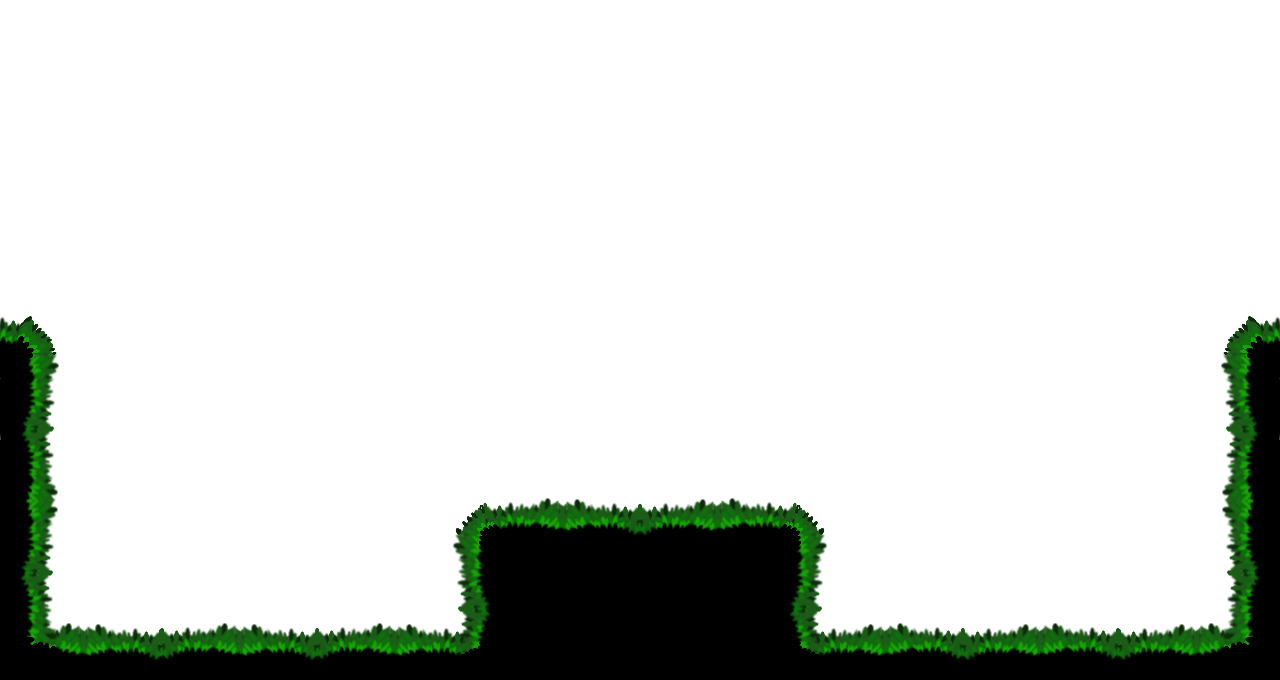
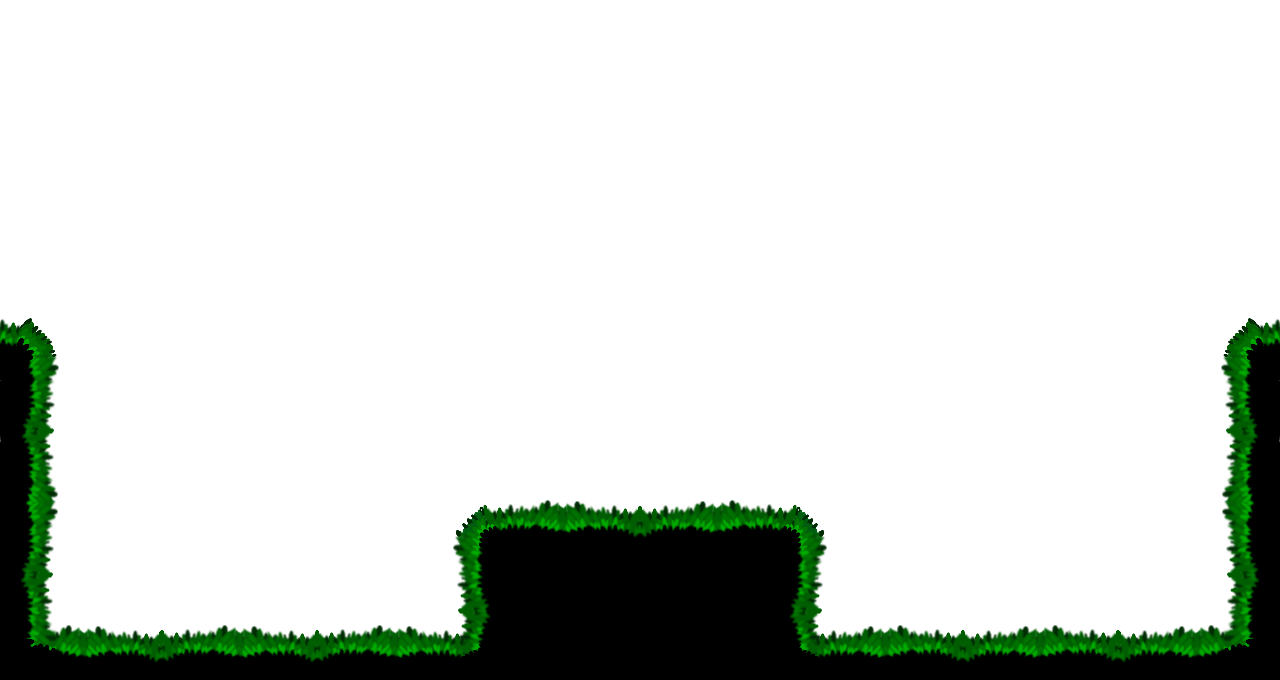
updated walls

Changed region(s): [[0.0, 0.4632, 1.0, 0.9882]]

diff --git a/src/js/scenes/game.js b/src/js/scenes/game.js
@@ -16,8 +16,6 @@ export class Game extends Phaser.Scene {
   }
 
   preload() {
-    this.load.image('sky', '../Resources/TestAssets/sky.png');
-    this.load.image('star', '../Resources/TestAssets/star.png');
     this.load.image('bomb', '../Resources/TestAssets/bomb.png');
     this.load.image('explosion', '../Resources/TestAssets/explosion.png');
     this.load.image('gun', '../Resources/TestAssets/gun.png');
@@ -41,10 +39,18 @@ export class Game extends Phaser.Scene {
     this.load.image('sprite', '../Resources/TestAssets/sprite.png');
 
     // stage assets
+        // main walls
     this.load.image('rightWall', '../Resources/Art/Scenery/rightWall.png');
     this.load.image('leftWall', '../Resources/Art/Scenery/leftWall.png');
     this.load.image('ground', '../Resources/Art/Scenery/ground.png');
     this.load.image('ceiling', '../Resources/Art/Scenery/ceiling.png');
+    this.load.image('central', '../Resources/Art/Scenery/central.png')
+    this.load.image('grass', '../Resources/Art/Scenery/grass.png');
+        // backgrounds
+    this.load.image('bck_mix', '../Resources/Art/Scenery/Backgrounds/bck_mix.png');
+    this.load.image('bck_mix', '../Resources/Art/Scenery/Backgrounds/bck_mix.png');
+    this.load.image('bck_mix', '../Resources/Art/Scenery/Backgrounds/bck_mix.png');
+        // platforms
   }
 
   create() {
@@ -53,14 +59,20 @@ export class Game extends Phaser.Scene {
     console.log(this.player2team);
 
     // objects in order from farther to nearest on screen
-    this.add.image(0, 0, 'sky').setOrigin(0,0); // by default elements are positioned based on their center. Change so it matches the origin of the screen
-    
+    this.add.image(0, 0, 'bck_mix').setOrigin(0,0); // by default elements are positioned based on their center. Change so it matches the origin of the screen
+
     // create platforms
     this.platforms = this.physics.add.staticGroup();
+        // basic walls
     this.platforms.create(633, 11, 'ceiling');
     this.platforms.create(1262, 301, 'rightWall');
     this.platforms.create(15, 301, 'leftWall');
-    this.platforms.create(650, 646, 'ground');
+    this.platforms.create(650, 656, 'ground');
+    this.platforms.create(640, 600, 'central');
+
+    var grass = this.add.image(0,0, 'grass').setOrigin(0,0);
+    grass.depth = 100;
+        
 
     // Creates a group for the players, bullets & weapons
     this.players = this.add.group();
